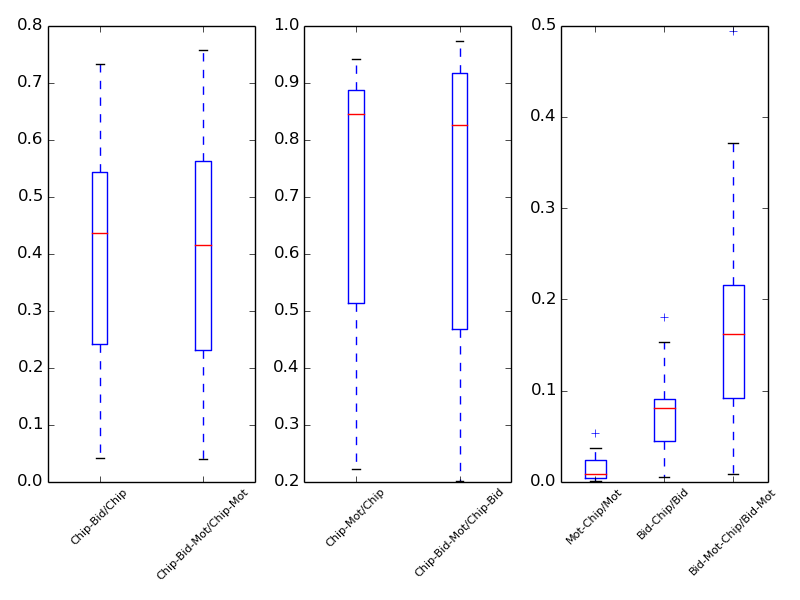
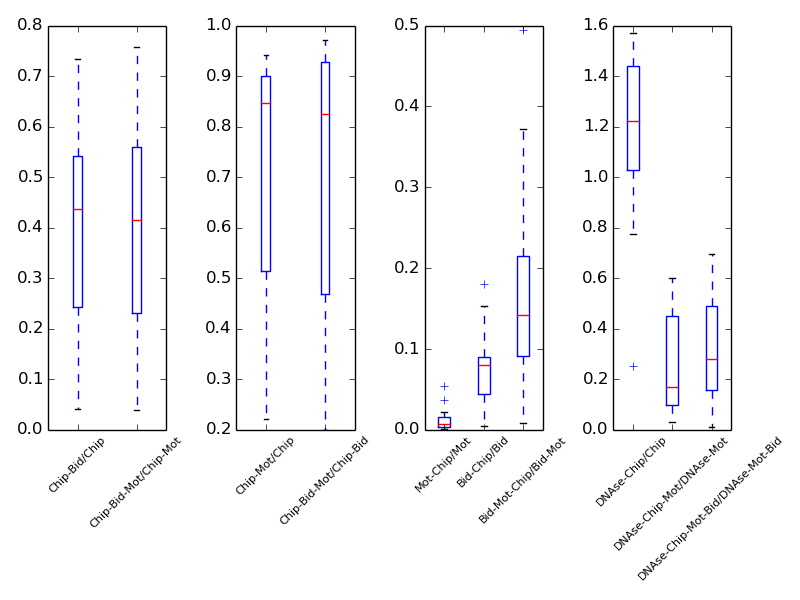
updates

diff --git a/src/VennGeneratorv2.py b/src/VennGeneratorv2.py
@@ -20,6 +20,7 @@ def run(bidirfile, chipfile, fimofile, outdir,dnasefile):
     os.system("bedtools intersect -a " + dnasefile + " -b " + chipfile + " -c > " + outdir + "/dnachipintersect.bed")
     os.system("bedtools intersect -a " + outdir + "/dnachipintersect.bed" + " -b " + fimofile + " -c > " + outdir + "/dnachipfimointersect.bed")
     os.system("bedtools intersect -a " + outdir + "/dnachipfimointersect.bed" + " -b " + bidirfile + " -c > " + outdir + "/dnachipfimobidirintersect.bed")
+    os.system("bedtools intersect -a " + chipfile + " -b " + dnasefile + " -c > " + outdir + "/chipdnaintersect.bed")
 
     
     chiptot = 0
@@ -33,6 +34,7 @@ def run(bidirfile, chipfile, fimofile, outdir,dnasefile):
     dnachipfimobidir = 0 
     chipbidir = 0
     chipfimo = 0
+    chipdna = 0
     bidirfimo = 0
     bidirchip = 0
     fimochip = 0
@@ -40,6 +42,12 @@ def run(bidirfile, chipfile, fimofile, outdir,dnasefile):
     chipbidirfimo = 0
     bidirfimochip = 0
     fimochipbidir = 0
+    
+    with open(outdir + "/chipdnaintersect.bed") as F0:
+        for line in F0:
+            val1 = int(line.strip().split()[-1])
+            if val1 != 0:
+                chipdna += 1
     
     with open(outdir + "/dnachipfimobidirintersect.bed") as F0:
         for line in F0:
@@ -118,7 +126,7 @@ def run(bidirfile, chipfile, fimofile, outdir,dnasefile):
     
     print "chipfile:\tchiptotal\tbidirtotal\tfimototal\tchipbidir\tchipfimo\tbidirchip\tbidirfimo\tfimochip\tfimobidir\tchipbidirfimo"
     print chipfile,chiptot,bidirtot,fimotot,chipbidir,chipfimo,bidirchip,bidirfimo,fimochip,fimobidir,chipbidirfimo
-    return chiptot, chipbidir, chipfimo, chipbidirfimo, bidirfimo, bidirfimochip, fimochip, fimotot, fimochipbidir,bidirchip, bidirtot,dnachip,dnafimo,dnatot,dnachipfimobidir,dnachipfimo,dnafimobidir
+    return chiptot, chipbidir, chipfimo, chipbidirfimo, bidirfimo, bidirfimochip, fimochip, fimotot, fimochipbidir,bidirchip, bidirtot,dnachip,dnafimo,dnatot,dnachipfimobidir,dnachipfimo,dnafimobidir,chipdna
     
 def fix_database(directory):
     for TF in os.listdir(directory):
@@ -152,7 +160,7 @@ if __name__ == "__main__":
                     if TF == fimoTF.split('_')[0]:
                         print fimoTF
                         fimofile = fimodir + '/' + fimoTF + '/fimo.bed'
-                        chiptot, chipbidir, chipfimo, chipbidirfimo,bidirfimo,bidirfimochip,fimochip,fimotot,fimochipbidir,bidirchip, bidirtot,dnachip,dnafimo,dnatot,dnachipfimobidir,dnachipfimo,dnafimobidir = run(bidirfile,chipfile,fimofile,chipdir + '/' + TF,dnasefile)
+                        chiptot, chipbidir, chipfimo, chipbidirfimo,bidirfimo,bidirfimochip,fimochip,fimotot,fimochipbidir,bidirchip, bidirtot,dnachip,dnafimo,dnatot,dnachipfimobidir,dnachipfimo,dnafimobidir,chipdna = run(bidirfile,chipfile,fimofile,chipdir + '/' + TF,dnasefile)
                         chiptot = float(chiptot)
                         chipbidir = float(chipbidir)
                         chipfimo = float(chipfimo)
@@ -170,6 +178,7 @@ if __name__ == "__main__":
                         dnachipfimo = float(dnachipfimo)
                         dnafimobidir = float(dnafimobidir)
                         dnachipfimobidir = float(dnachipfimobidir)
+                        chipdna = float(chipdna)
                         list1[0].append(chipbidir/chiptot)
                         list1[1].append(chipbidirfimo/chipfimo)
                         list2[0].append(chipfimo/chiptot)
@@ -177,7 +186,7 @@ if __name__ == "__main__":
                         list3[0].append(fimochip/fimotot)
                         list3[1].append(bidirchip/bidirtot)
                         list3[2].append(bidirfimochip/bidirfimo)
-                        list4[0].append(dnachip/chiptot)
+                        list4[0].append(chipdna/chiptot)
                         list4[1].append(dnachipfimo/dnafimo)
                         list4[2].append(dnachipfimobidir/dnafimobidir)
                         
@@ -194,7 +203,7 @@ if __name__ == "__main__":
     ax3.boxplot(list3)
     ax3.set_xticklabels(['Mot-Chip/Mot','Bid-Chip/Bid','Bid-Mot-Chip/Bid-Mot'],rotation = 45, fontsize=8)
     ax4.boxplot(list4)
-    ax4.set_xticklabels(['DNAse-Chip/Chip','DNAse-Chip-Mot/DNAse-Mot','DNAse-Chip-Mot-Bid/DNAse-Mot-Bid'],rotation = 45, fontsize=8)
+    ax4.set_xticklabels(['Chip-DNAse/Chip','DNAse-Chip-Mot/DNAse-Mot','DNAse-Chip-Mot-Bid/DNAse-Mot-Bid'],rotation = 45, fontsize=8)
     #ax = plt.axes()
     #plt.boxplot(list1)
     #title = bidirfile.split('/')[-1]
